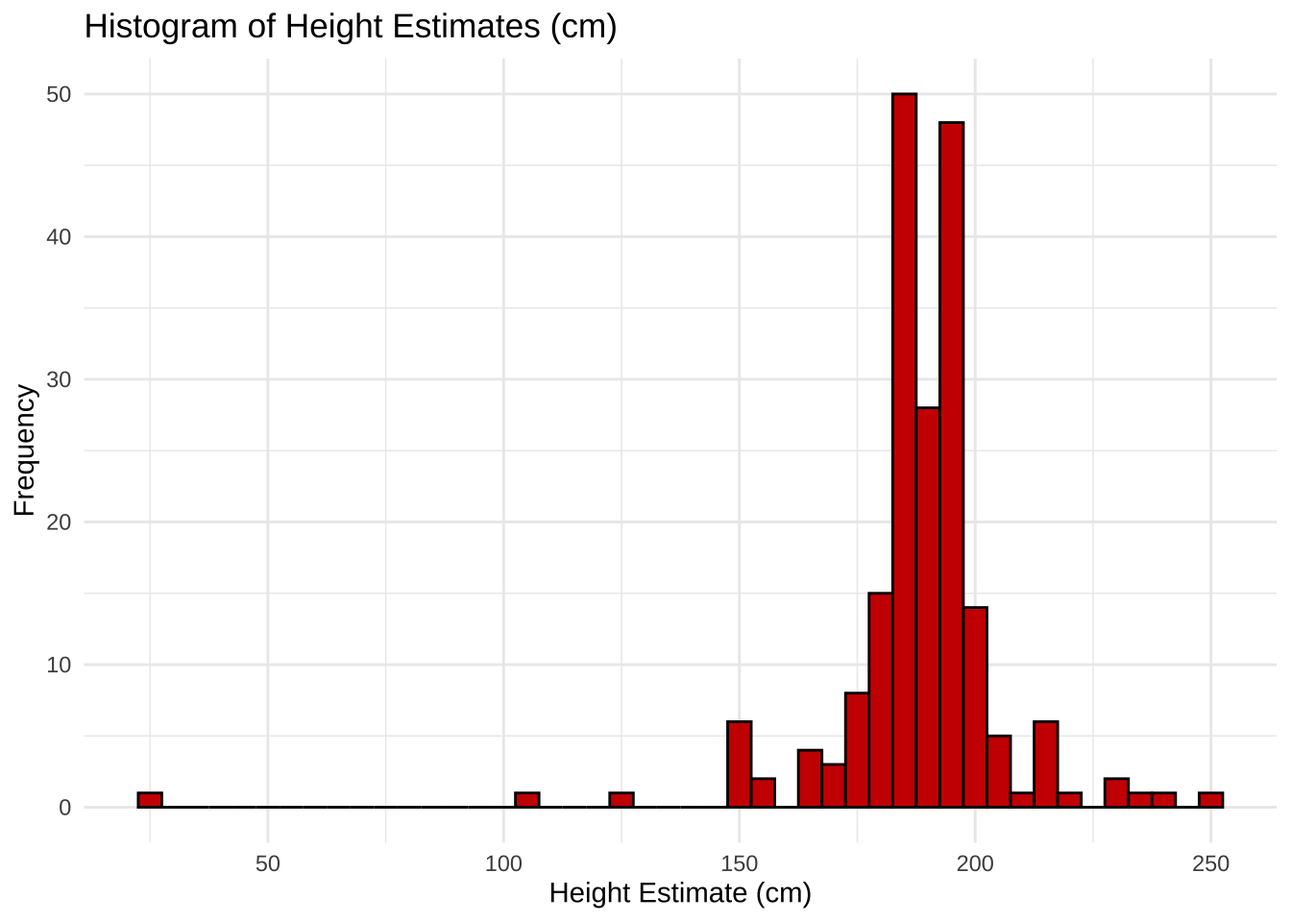
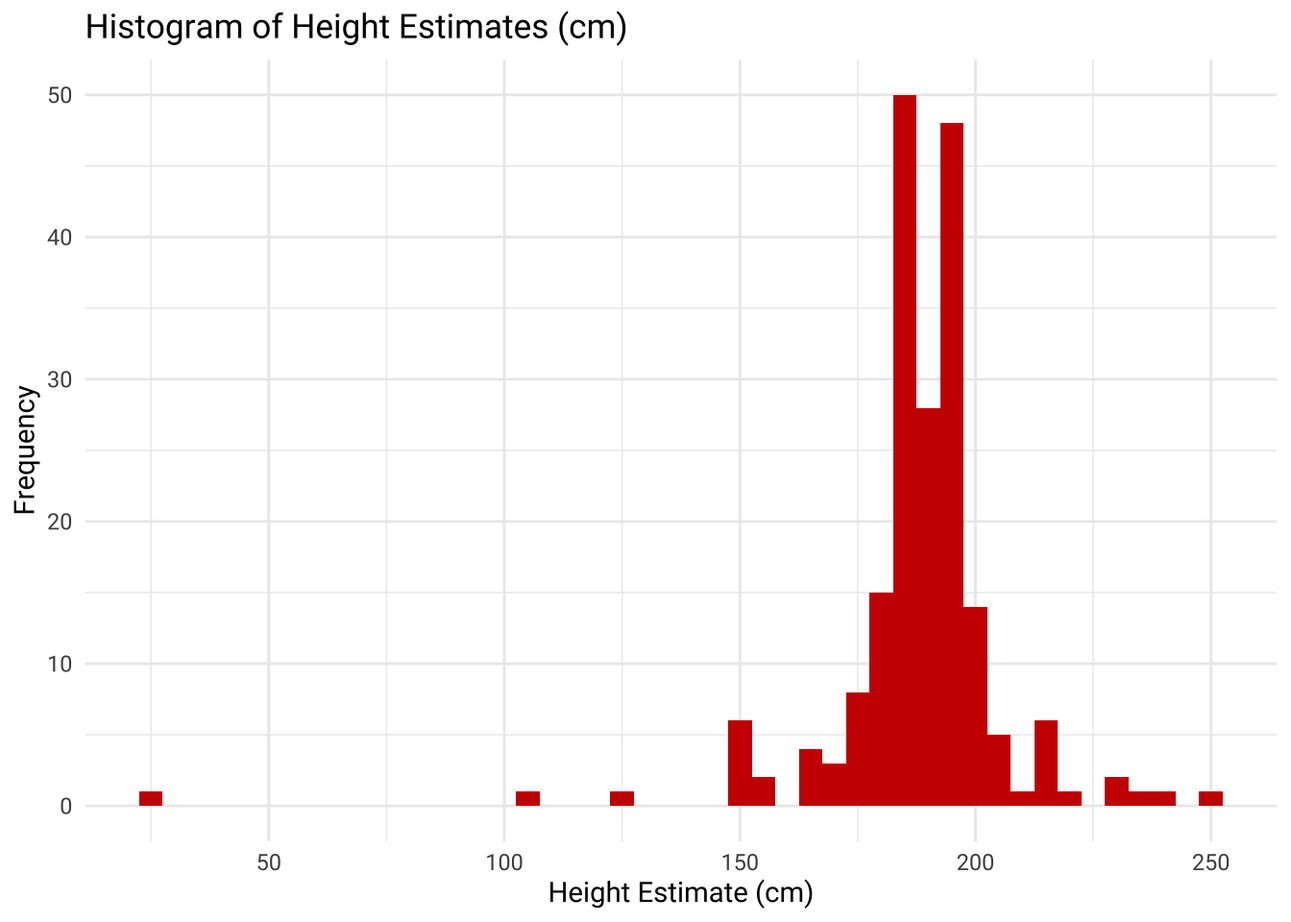
Final commit

diff --git a/docs/ST557_mod3_height_estimations.html b/docs/ST557_mod3_height_estimations.html
@@ -319,7 +319,10 @@ body {
 <div class="sourceCode cell-code" id="cb4"><pre class="sourceCode r code-with-copy"><code class="sourceCode r"><span id="cb4-1"><a href="#cb4-1" aria-hidden="true" tabindex="-1"></a>height_est <span class="ot">&lt;-</span> height_est <span class="sc">|&gt;</span></span>
 <span id="cb4-2"><a href="#cb4-2" aria-hidden="true" tabindex="-1"></a>  <span class="fu">mutate</span>(<span class="at">Timestamp =</span> <span class="fu">mdy_hms</span>(Timestamp)) <span class="sc">|&gt;</span></span>
 <span id="cb4-3"><a href="#cb4-3" aria-hidden="true" tabindex="-1"></a>  <span class="fu">clean_names</span>() <span class="sc">|&gt;</span></span>
-<span id="cb4-4"><a href="#cb4-4" aria-hidden="true" tabindex="-1"></a>  <span class="fu">filter</span>(<span class="sc">!</span>(<span class="fu">is.na</span>(whats_too_low) <span class="sc">&amp;</span> <span class="fu">is.na</span>(whats_too_high) <span class="sc">&amp;</span> <span class="fu">is.na</span>(your_estimate)))</span></code><button title="Copy to Clipboard" class="code-copy-button"><i class="bi"></i></button></pre></div>
+<span id="cb4-4"><a href="#cb4-4" aria-hidden="true" tabindex="-1"></a>  <span class="fu">filter</span>(<span class="sc">!</span>(</span>
+<span id="cb4-5"><a href="#cb4-5" aria-hidden="true" tabindex="-1"></a>    <span class="fu">is.na</span>(whats_too_low) <span class="sc">&amp;</span></span>
+<span id="cb4-6"><a href="#cb4-6" aria-hidden="true" tabindex="-1"></a>      <span class="fu">is.na</span>(whats_too_high) <span class="sc">&amp;</span> <span class="fu">is.na</span>(your_estimate)</span>
+<span id="cb4-7"><a href="#cb4-7" aria-hidden="true" tabindex="-1"></a>  ))</span></code><button title="Copy to Clipboard" class="code-copy-button"><i class="bi"></i></button></pre></div>
 </div>
 <div class="cell">
 <div class="sourceCode cell-code" id="cb5"><pre class="sourceCode r code-with-copy"><code class="sourceCode r"><span id="cb5-1"><a href="#cb5-1" aria-hidden="true" tabindex="-1"></a><span class="fu">glimpse</span>(height_est)</span></code><button title="Copy to Clipboard" class="code-copy-button"><i class="bi"></i></button></pre></div>
@@ -529,16 +532,28 @@ $ your_name      &lt;chr&gt; "Joanna", "Forrest J. S. M.", "Kaitlyn", "adsf", "g
 <p>Get a sense of frequency of measurement units</p>
 <div class="cell">
 <div class="sourceCode cell-code" id="cb13"><pre class="sourceCode r code-with-copy"><code class="sourceCode r"><span id="cb13-1"><a href="#cb13-1" aria-hidden="true" tabindex="-1"></a>height_est_sample <span class="sc">|&gt;</span></span>
-<span id="cb13-2"><a href="#cb13-2" aria-hidden="true" tabindex="-1"></a> <span class="fu">summarise</span>(</span>
-<span id="cb13-3"><a href="#cb13-3" aria-hidden="true" tabindex="-1"></a>   <span class="fu">across</span>(<span class="fu">all_of</span>(height_cols), </span>
-<span id="cb13-4"><a href="#cb13-4" aria-hidden="true" tabindex="-1"></a>          <span class="fu">list</span>(</span>
-<span id="cb13-5"><a href="#cb13-5" aria-hidden="true" tabindex="-1"></a>            <span class="at">feet =</span> <span class="sc">~</span> <span class="fu">sum</span>(<span class="fu">str_detect</span>(.x, <span class="st">"'|(feet|foot|ft|feeet|toot|fot|oot|feat)</span><span class="sc">\\</span><span class="st">b"</span>), <span class="at">na.rm =</span> <span class="cn">TRUE</span>),</span>
-<span id="cb13-6"><a href="#cb13-6" aria-hidden="true" tabindex="-1"></a>            <span class="at">inch =</span> <span class="sc">~</span> <span class="fu">sum</span>(<span class="fu">str_detect</span>(.x, <span class="st">"</span><span class="sc">\"</span><span class="st">|(inches|inch|in|inces|invhes)</span><span class="sc">\\</span><span class="st">b"</span>), <span class="at">na.rm =</span> <span class="cn">TRUE</span>),</span>
-<span id="cb13-7"><a href="#cb13-7" aria-hidden="true" tabindex="-1"></a>            <span class="at">meter =</span> <span class="sc">~</span> <span class="fu">sum</span>(<span class="fu">str_detect</span>(.x, <span class="st">"(meters|metres|meter|metre)</span><span class="sc">\\</span><span class="st">b|(?&lt;!c)m</span><span class="sc">\\</span><span class="st">b"</span>), <span class="at">na.rm =</span> <span class="cn">TRUE</span>),</span>
-<span id="cb13-8"><a href="#cb13-8" aria-hidden="true" tabindex="-1"></a>            <span class="at">cm =</span> <span class="sc">~</span> <span class="fu">sum</span>(<span class="fu">str_detect</span>(.x, <span class="st">"(centimeters|centimetres|cent|cm)</span><span class="sc">\\</span><span class="st">b"</span>), <span class="at">na.rm =</span> <span class="cn">TRUE</span>)</span>
-<span id="cb13-9"><a href="#cb13-9" aria-hidden="true" tabindex="-1"></a>          ),</span>
-<span id="cb13-10"><a href="#cb13-10" aria-hidden="true" tabindex="-1"></a>          <span class="at">.names =</span> <span class="st">"{.col}_{.fn}"</span>)</span>
-<span id="cb13-11"><a href="#cb13-11" aria-hidden="true" tabindex="-1"></a> )</span></code><button title="Copy to Clipboard" class="code-copy-button"><i class="bi"></i></button></pre></div>
+<span id="cb13-2"><a href="#cb13-2" aria-hidden="true" tabindex="-1"></a>  <span class="fu">summarise</span>(<span class="fu">across</span>(</span>
+<span id="cb13-3"><a href="#cb13-3" aria-hidden="true" tabindex="-1"></a>    <span class="fu">all_of</span>(height_cols),</span>
+<span id="cb13-4"><a href="#cb13-4" aria-hidden="true" tabindex="-1"></a>    <span class="fu">list</span>(</span>
+<span id="cb13-5"><a href="#cb13-5" aria-hidden="true" tabindex="-1"></a>      <span class="at">feet =</span> <span class="sc">~</span> <span class="fu">sum</span>(</span>
+<span id="cb13-6"><a href="#cb13-6" aria-hidden="true" tabindex="-1"></a>        <span class="fu">str_detect</span>(.x, <span class="st">"'|(feet|foot|ft|feeet|toot|fot|oot|feat)</span><span class="sc">\\</span><span class="st">b"</span>),</span>
+<span id="cb13-7"><a href="#cb13-7" aria-hidden="true" tabindex="-1"></a>        <span class="at">na.rm =</span> <span class="cn">TRUE</span></span>
+<span id="cb13-8"><a href="#cb13-8" aria-hidden="true" tabindex="-1"></a>      ),</span>
+<span id="cb13-9"><a href="#cb13-9" aria-hidden="true" tabindex="-1"></a>      <span class="at">inch =</span> <span class="sc">~</span> <span class="fu">sum</span>(</span>
+<span id="cb13-10"><a href="#cb13-10" aria-hidden="true" tabindex="-1"></a>        <span class="fu">str_detect</span>(.x, <span class="st">"</span><span class="sc">\"</span><span class="st">|(inches|inch|in|inces|invhes)</span><span class="sc">\\</span><span class="st">b"</span>),</span>
+<span id="cb13-11"><a href="#cb13-11" aria-hidden="true" tabindex="-1"></a>        <span class="at">na.rm =</span> <span class="cn">TRUE</span></span>
+<span id="cb13-12"><a href="#cb13-12" aria-hidden="true" tabindex="-1"></a>      ),</span>
+<span id="cb13-13"><a href="#cb13-13" aria-hidden="true" tabindex="-1"></a>      <span class="at">meter =</span> <span class="sc">~</span> <span class="fu">sum</span>(</span>
+<span id="cb13-14"><a href="#cb13-14" aria-hidden="true" tabindex="-1"></a>        <span class="fu">str_detect</span>(.x, <span class="st">"(meters|metres|meter|metre)</span><span class="sc">\\</span><span class="st">b|(?&lt;!c)m</span><span class="sc">\\</span><span class="st">b"</span>),</span>
+<span id="cb13-15"><a href="#cb13-15" aria-hidden="true" tabindex="-1"></a>        <span class="at">na.rm =</span> <span class="cn">TRUE</span></span>
+<span id="cb13-16"><a href="#cb13-16" aria-hidden="true" tabindex="-1"></a>      ),</span>
+<span id="cb13-17"><a href="#cb13-17" aria-hidden="true" tabindex="-1"></a>      <span class="at">cm =</span> <span class="sc">~</span> <span class="fu">sum</span>(</span>
+<span id="cb13-18"><a href="#cb13-18" aria-hidden="true" tabindex="-1"></a>        <span class="fu">str_detect</span>(.x, <span class="st">"(centimeters|centimetres|cent|cm)</span><span class="sc">\\</span><span class="st">b"</span>),</span>
+<span id="cb13-19"><a href="#cb13-19" aria-hidden="true" tabindex="-1"></a>        <span class="at">na.rm =</span> <span class="cn">TRUE</span></span>
+<span id="cb13-20"><a href="#cb13-20" aria-hidden="true" tabindex="-1"></a>      )</span>
+<span id="cb13-21"><a href="#cb13-21" aria-hidden="true" tabindex="-1"></a>    ),</span>
+<span id="cb13-22"><a href="#cb13-22" aria-hidden="true" tabindex="-1"></a>    <span class="at">.names =</span> <span class="st">"{.col}_{.fn}"</span></span>
+<span id="cb13-23"><a href="#cb13-23" aria-hidden="true" tabindex="-1"></a>  ))</span></code><button title="Copy to Clipboard" class="code-copy-button"><i class="bi"></i></button></pre></div>
 <div class="cell-output cell-output-stdout">
 <pre><code># A tibble: 1 × 12
   whats_too_low_feet whats_too_low_inch whats_too_low_meter whats_too_low_cm
@@ -553,13 +568,18 @@ $ your_name      &lt;chr&gt; "Joanna", "Forrest J. S. M.", "Kaitlyn", "adsf", "g
 <p>Attempt to programmatically apply consistent unit designations in anticipation of using <em>measurements</em> package to convert all to cm</p>
 <div class="cell">
 <div class="sourceCode cell-code" id="cb15"><pre class="sourceCode r code-with-copy"><code class="sourceCode r"><span id="cb15-1"><a href="#cb15-1" aria-hidden="true" tabindex="-1"></a>height_est_sample_mod <span class="ot">&lt;-</span> height_est_sample <span class="sc">|&gt;</span></span>
-<span id="cb15-2"><a href="#cb15-2" aria-hidden="true" tabindex="-1"></a>  <span class="fu">mutate</span>(<span class="fu">across</span>(<span class="fu">all_of</span>(height_cols), <span class="sc">~</span> .x <span class="sc">|&gt;</span></span>
-<span id="cb15-3"><a href="#cb15-3" aria-hidden="true" tabindex="-1"></a>    <span class="fu">str_replace_all</span>(<span class="st">"'|(feet|foot|ft|feeet|toot|fot|oot|feat)</span><span class="sc">\\</span><span class="st">b"</span>, <span class="st">" ft "</span>) <span class="sc">|&gt;</span></span>
-<span id="cb15-4"><a href="#cb15-4" aria-hidden="true" tabindex="-1"></a>    <span class="fu">str_replace_all</span>(<span class="st">"</span><span class="sc">\"</span><span class="st">|(inches|inch|in|inces|invhes)</span><span class="sc">\\</span><span class="st">b"</span>, <span class="st">" inch "</span>) <span class="sc">|&gt;</span></span>
-<span id="cb15-5"><a href="#cb15-5" aria-hidden="true" tabindex="-1"></a>    <span class="fu">str_replace_all</span>(<span class="st">"(meters|metres|meter|metre)</span><span class="sc">\\</span><span class="st">b"</span>, <span class="st">" m "</span>) <span class="sc">|&gt;</span></span>
-<span id="cb15-6"><a href="#cb15-6" aria-hidden="true" tabindex="-1"></a>    <span class="fu">str_replace_all</span>(<span class="st">"(centimeters|centimetres|cent|cm)</span><span class="sc">\\</span><span class="st">b"</span>, <span class="st">" cm "</span>) <span class="sc">|&gt;</span></span>
-<span id="cb15-7"><a href="#cb15-7" aria-hidden="true" tabindex="-1"></a>    <span class="fu">str_replace_all</span>(<span class="st">"(?&lt;!c)m</span><span class="sc">\\</span><span class="st">b"</span>, <span class="st">" m "</span>),</span>
-<span id="cb15-8"><a href="#cb15-8" aria-hidden="true" tabindex="-1"></a>    <span class="at">.names =</span> <span class="st">"{.col}_mod"</span>))</span></code><button title="Copy to Clipboard" class="code-copy-button"><i class="bi"></i></button></pre></div>
+<span id="cb15-2"><a href="#cb15-2" aria-hidden="true" tabindex="-1"></a>  <span class="fu">mutate</span>(</span>
+<span id="cb15-3"><a href="#cb15-3" aria-hidden="true" tabindex="-1"></a>    <span class="fu">across</span>(</span>
+<span id="cb15-4"><a href="#cb15-4" aria-hidden="true" tabindex="-1"></a>      <span class="fu">all_of</span>(height_cols),</span>
+<span id="cb15-5"><a href="#cb15-5" aria-hidden="true" tabindex="-1"></a>      <span class="sc">~</span> .x <span class="sc">|&gt;</span></span>
+<span id="cb15-6"><a href="#cb15-6" aria-hidden="true" tabindex="-1"></a>        <span class="fu">str_replace_all</span>(<span class="st">"'|(feet|foot|ft|feeet|toot|fot|oot|feat)</span><span class="sc">\\</span><span class="st">b"</span>, <span class="st">" ft "</span>) <span class="sc">|&gt;</span></span>
+<span id="cb15-7"><a href="#cb15-7" aria-hidden="true" tabindex="-1"></a>        <span class="fu">str_replace_all</span>(<span class="st">"</span><span class="sc">\"</span><span class="st">|(inches|inch|in|inces|invhes)</span><span class="sc">\\</span><span class="st">b"</span>, <span class="st">" inch "</span>) <span class="sc">|&gt;</span></span>
+<span id="cb15-8"><a href="#cb15-8" aria-hidden="true" tabindex="-1"></a>        <span class="fu">str_replace_all</span>(<span class="st">"(meters|metres|meter|metre)</span><span class="sc">\\</span><span class="st">b"</span>, <span class="st">" m "</span>) <span class="sc">|&gt;</span></span>
+<span id="cb15-9"><a href="#cb15-9" aria-hidden="true" tabindex="-1"></a>        <span class="fu">str_replace_all</span>(<span class="st">"(centimeters|centimetres|cent|cm)</span><span class="sc">\\</span><span class="st">b"</span>, <span class="st">" cm "</span>) <span class="sc">|&gt;</span></span>
+<span id="cb15-10"><a href="#cb15-10" aria-hidden="true" tabindex="-1"></a>        <span class="fu">str_replace_all</span>(<span class="st">"(?&lt;!c)m</span><span class="sc">\\</span><span class="st">b"</span>, <span class="st">" m "</span>),</span>
+<span id="cb15-11"><a href="#cb15-11" aria-hidden="true" tabindex="-1"></a>      <span class="at">.names =</span> <span class="st">"{.col}_mod"</span></span>
+<span id="cb15-12"><a href="#cb15-12" aria-hidden="true" tabindex="-1"></a>    )</span>
+<span id="cb15-13"><a href="#cb15-13" aria-hidden="true" tabindex="-1"></a>  )</span></code><button title="Copy to Clipboard" class="code-copy-button"><i class="bi"></i></button></pre></div>
 </div>
 <div class="cell">
 <div class="sourceCode cell-code" id="cb16"><pre class="sourceCode r code-with-copy"><code class="sourceCode r"><span id="cb16-1"><a href="#cb16-1" aria-hidden="true" tabindex="-1"></a>height_est_sample_mod <span class="sc">|&gt;</span></span>
@@ -2804,36 +2824,37 @@ $ your_name      &lt;chr&gt; "Joanna", "Forrest J. S. M.", "Kaitlyn", "adsf", "g
 <p>The following code blocks use a simpler, although less defensible approach, of ignoring the various unit designations, and instead just extracting the numbers and using reasonable ranges to approximate the intended unit. This allowed me to move forward in my analysis. The below therefore is indicative of some steps I would have taken if I could have eventually coerced at least the “your_estimate_mod” column into a usbale state.</p>
 <div class="cell">
 <div class="sourceCode cell-code" id="cb17"><pre class="sourceCode r code-with-copy"><code class="sourceCode r"><span id="cb17-1"><a href="#cb17-1" aria-hidden="true" tabindex="-1"></a>height_est_sample_mod_2 <span class="ot">&lt;-</span> height_est_sample_mod <span class="sc">|&gt;</span></span>
-<span id="cb17-2"><a href="#cb17-2" aria-hidden="true" tabindex="-1"></a> <span class="fu">mutate</span>(</span>
-<span id="cb17-3"><a href="#cb17-3" aria-hidden="true" tabindex="-1"></a>   <span class="at">estimate_cm =</span> <span class="fu">map_dbl</span>(your_estimate, <span class="cf">function</span>(text) {</span>
-<span id="cb17-4"><a href="#cb17-4" aria-hidden="true" tabindex="-1"></a>     <span class="cf">if</span> (<span class="fu">is.na</span>(text) <span class="sc">||</span> <span class="fu">str_trim</span>(text) <span class="sc">==</span> <span class="st">""</span>) <span class="fu">return</span>(<span class="cn">NA_real_</span>)</span>
-<span id="cb17-5"><a href="#cb17-5" aria-hidden="true" tabindex="-1"></a>     </span>
-<span id="cb17-6"><a href="#cb17-6" aria-hidden="true" tabindex="-1"></a>     numbers <span class="ot">&lt;-</span> <span class="fu">as.numeric</span>(<span class="fu">str_extract_all</span>(text, <span class="st">"</span><span class="sc">\\</span><span class="st">d+</span><span class="sc">\\</span><span class="st">.?</span><span class="sc">\\</span><span class="st">d*"</span>)[[<span class="dv">1</span>]])</span>
-<span id="cb17-7"><a href="#cb17-7" aria-hidden="true" tabindex="-1"></a>     <span class="cf">if</span> (<span class="fu">length</span>(numbers) <span class="sc">==</span> <span class="dv">0</span>) <span class="fu">return</span>(<span class="cn">NA_real_</span>)</span>
-<span id="cb17-8"><a href="#cb17-8" aria-hidden="true" tabindex="-1"></a>     </span>
-<span id="cb17-9"><a href="#cb17-9" aria-hidden="true" tabindex="-1"></a>     <span class="fu">tryCatch</span>({</span>
-<span id="cb17-10"><a href="#cb17-10" aria-hidden="true" tabindex="-1"></a>       first_num <span class="ot">&lt;-</span> numbers[<span class="dv">1</span>]</span>
-<span id="cb17-11"><a href="#cb17-11" aria-hidden="true" tabindex="-1"></a>       </span>
-<span id="cb17-12"><a href="#cb17-12" aria-hidden="true" tabindex="-1"></a>       <span class="cf">if</span> (first_num <span class="sc">&lt;</span> <span class="dv">3</span>) {</span>
-<span id="cb17-13"><a href="#cb17-13" aria-hidden="true" tabindex="-1"></a>         <span class="fu">conv_unit</span>(first_num, <span class="st">"m"</span>, <span class="st">"cm"</span>)</span>
-<span id="cb17-14"><a href="#cb17-14" aria-hidden="true" tabindex="-1"></a>       } <span class="cf">else</span> <span class="cf">if</span> (first_num <span class="sc">&gt;</span> <span class="dv">100</span>) {</span>
-<span id="cb17-15"><a href="#cb17-15" aria-hidden="true" tabindex="-1"></a>         first_num</span>
-<span id="cb17-16"><a href="#cb17-16" aria-hidden="true" tabindex="-1"></a>       } <span class="cf">else</span> <span class="cf">if</span> (first_num <span class="sc">&gt;=</span> <span class="dv">50</span> <span class="sc">&amp;&amp;</span> first_num <span class="sc">&lt;=</span> <span class="dv">100</span>) {</span>
-<span id="cb17-17"><a href="#cb17-17" aria-hidden="true" tabindex="-1"></a>         <span class="fu">conv_unit</span>(first_num, <span class="st">"inch"</span>, <span class="st">"cm"</span>)</span>
-<span id="cb17-18"><a href="#cb17-18" aria-hidden="true" tabindex="-1"></a>       } <span class="cf">else</span> <span class="cf">if</span> (first_num <span class="sc">&gt;=</span> <span class="dv">3</span> <span class="sc">&amp;&amp;</span> first_num <span class="sc">&lt;</span> <span class="dv">9</span>) {</span>
-<span id="cb17-19"><a href="#cb17-19" aria-hidden="true" tabindex="-1"></a>         <span class="cf">if</span> (<span class="fu">length</span>(numbers) <span class="sc">&gt;=</span> <span class="dv">2</span> <span class="sc">&amp;&amp;</span> numbers[<span class="dv">2</span>] <span class="sc">&lt;=</span> <span class="dv">12</span>) {</span>
-<span id="cb17-20"><a href="#cb17-20" aria-hidden="true" tabindex="-1"></a>           <span class="fu">conv_unit</span>(first_num, <span class="st">"ft"</span>, <span class="st">"cm"</span>) <span class="sc">+</span> <span class="fu">conv_unit</span>(numbers[<span class="dv">2</span>], <span class="st">"inch"</span>, <span class="st">"cm"</span>)</span>
-<span id="cb17-21"><a href="#cb17-21" aria-hidden="true" tabindex="-1"></a>         } <span class="cf">else</span> {</span>
-<span id="cb17-22"><a href="#cb17-22" aria-hidden="true" tabindex="-1"></a>           <span class="fu">conv_unit</span>(first_num, <span class="st">"ft"</span>, <span class="st">"cm"</span>)</span>
-<span id="cb17-23"><a href="#cb17-23" aria-hidden="true" tabindex="-1"></a>         }</span>
-<span id="cb17-24"><a href="#cb17-24" aria-hidden="true" tabindex="-1"></a>       } <span class="cf">else</span> <span class="cf">if</span> (first_num <span class="sc">&gt;=</span> <span class="dv">9</span> <span class="sc">&amp;&amp;</span> first_num <span class="sc">&lt;</span> <span class="dv">50</span>) {</span>
-<span id="cb17-25"><a href="#cb17-25" aria-hidden="true" tabindex="-1"></a>         <span class="fu">conv_unit</span>(first_num, <span class="st">"inch"</span>, <span class="st">"cm"</span>)</span>
-<span id="cb17-26"><a href="#cb17-26" aria-hidden="true" tabindex="-1"></a>       } <span class="cf">else</span> {</span>
-<span id="cb17-27"><a href="#cb17-27" aria-hidden="true" tabindex="-1"></a>         <span class="cn">NA_real_</span></span>
-<span id="cb17-28"><a href="#cb17-28" aria-hidden="true" tabindex="-1"></a>       }</span>
-<span id="cb17-29"><a href="#cb17-29" aria-hidden="true" tabindex="-1"></a>     }, <span class="at">error =</span> <span class="cf">function</span>(e) <span class="cn">NA_real_</span>)</span>
-<span id="cb17-30"><a href="#cb17-30" aria-hidden="true" tabindex="-1"></a>   })</span>
-<span id="cb17-31"><a href="#cb17-31" aria-hidden="true" tabindex="-1"></a> )</span></code><button title="Copy to Clipboard" class="code-copy-button"><i class="bi"></i></button></pre></div>
+<span id="cb17-2"><a href="#cb17-2" aria-hidden="true" tabindex="-1"></a>  <span class="fu">mutate</span>(<span class="at">estimate_cm =</span> <span class="fu">map_dbl</span>(your_estimate, <span class="cf">function</span>(text) {</span>
+<span id="cb17-3"><a href="#cb17-3" aria-hidden="true" tabindex="-1"></a>    <span class="cf">if</span> (<span class="fu">is.na</span>(text) <span class="sc">||</span> <span class="fu">str_trim</span>(text) <span class="sc">==</span> <span class="st">""</span>)</span>
+<span id="cb17-4"><a href="#cb17-4" aria-hidden="true" tabindex="-1"></a>      <span class="fu">return</span>(<span class="cn">NA_real_</span>)</span>
+<span id="cb17-5"><a href="#cb17-5" aria-hidden="true" tabindex="-1"></a>    </span>
+<span id="cb17-6"><a href="#cb17-6" aria-hidden="true" tabindex="-1"></a>    numbers <span class="ot">&lt;-</span> <span class="fu">as.numeric</span>(<span class="fu">str_extract_all</span>(text, <span class="st">"</span><span class="sc">\\</span><span class="st">d+</span><span class="sc">\\</span><span class="st">.?</span><span class="sc">\\</span><span class="st">d*"</span>)[[<span class="dv">1</span>]])</span>
+<span id="cb17-7"><a href="#cb17-7" aria-hidden="true" tabindex="-1"></a>    <span class="cf">if</span> (<span class="fu">length</span>(numbers) <span class="sc">==</span> <span class="dv">0</span>)</span>
+<span id="cb17-8"><a href="#cb17-8" aria-hidden="true" tabindex="-1"></a>      <span class="fu">return</span>(<span class="cn">NA_real_</span>)</span>
+<span id="cb17-9"><a href="#cb17-9" aria-hidden="true" tabindex="-1"></a>    </span>
+<span id="cb17-10"><a href="#cb17-10" aria-hidden="true" tabindex="-1"></a>    <span class="fu">tryCatch</span>({</span>
+<span id="cb17-11"><a href="#cb17-11" aria-hidden="true" tabindex="-1"></a>      first_num <span class="ot">&lt;-</span> numbers[<span class="dv">1</span>]</span>
+<span id="cb17-12"><a href="#cb17-12" aria-hidden="true" tabindex="-1"></a>      </span>
+<span id="cb17-13"><a href="#cb17-13" aria-hidden="true" tabindex="-1"></a>      <span class="cf">if</span> (first_num <span class="sc">&lt;</span> <span class="dv">3</span>) {</span>
+<span id="cb17-14"><a href="#cb17-14" aria-hidden="true" tabindex="-1"></a>        <span class="fu">conv_unit</span>(first_num, <span class="st">"m"</span>, <span class="st">"cm"</span>)</span>
+<span id="cb17-15"><a href="#cb17-15" aria-hidden="true" tabindex="-1"></a>      } <span class="cf">else</span> <span class="cf">if</span> (first_num <span class="sc">&gt;</span> <span class="dv">100</span>) {</span>
+<span id="cb17-16"><a href="#cb17-16" aria-hidden="true" tabindex="-1"></a>        first_num</span>
+<span id="cb17-17"><a href="#cb17-17" aria-hidden="true" tabindex="-1"></a>      } <span class="cf">else</span> <span class="cf">if</span> (first_num <span class="sc">&gt;=</span> <span class="dv">50</span> <span class="sc">&amp;&amp;</span> first_num <span class="sc">&lt;=</span> <span class="dv">100</span>) {</span>
+<span id="cb17-18"><a href="#cb17-18" aria-hidden="true" tabindex="-1"></a>        <span class="fu">conv_unit</span>(first_num, <span class="st">"inch"</span>, <span class="st">"cm"</span>)</span>
+<span id="cb17-19"><a href="#cb17-19" aria-hidden="true" tabindex="-1"></a>      } <span class="cf">else</span> <span class="cf">if</span> (first_num <span class="sc">&gt;=</span> <span class="dv">3</span> <span class="sc">&amp;&amp;</span> first_num <span class="sc">&lt;</span> <span class="dv">9</span>) {</span>
+<span id="cb17-20"><a href="#cb17-20" aria-hidden="true" tabindex="-1"></a>        <span class="cf">if</span> (<span class="fu">length</span>(numbers) <span class="sc">&gt;=</span> <span class="dv">2</span> <span class="sc">&amp;&amp;</span> numbers[<span class="dv">2</span>] <span class="sc">&lt;=</span> <span class="dv">12</span>) {</span>
+<span id="cb17-21"><a href="#cb17-21" aria-hidden="true" tabindex="-1"></a>          <span class="fu">conv_unit</span>(first_num, <span class="st">"ft"</span>, <span class="st">"cm"</span>) <span class="sc">+</span> <span class="fu">conv_unit</span>(numbers[<span class="dv">2</span>], <span class="st">"inch"</span>, <span class="st">"cm"</span>)</span>
+<span id="cb17-22"><a href="#cb17-22" aria-hidden="true" tabindex="-1"></a>        } <span class="cf">else</span> {</span>
+<span id="cb17-23"><a href="#cb17-23" aria-hidden="true" tabindex="-1"></a>          <span class="fu">conv_unit</span>(first_num, <span class="st">"ft"</span>, <span class="st">"cm"</span>)</span>
+<span id="cb17-24"><a href="#cb17-24" aria-hidden="true" tabindex="-1"></a>        }</span>
+<span id="cb17-25"><a href="#cb17-25" aria-hidden="true" tabindex="-1"></a>      } <span class="cf">else</span> <span class="cf">if</span> (first_num <span class="sc">&gt;=</span> <span class="dv">9</span> <span class="sc">&amp;&amp;</span> first_num <span class="sc">&lt;</span> <span class="dv">50</span>) {</span>
+<span id="cb17-26"><a href="#cb17-26" aria-hidden="true" tabindex="-1"></a>        <span class="fu">conv_unit</span>(first_num, <span class="st">"inch"</span>, <span class="st">"cm"</span>)</span>
+<span id="cb17-27"><a href="#cb17-27" aria-hidden="true" tabindex="-1"></a>      } <span class="cf">else</span> {</span>
+<span id="cb17-28"><a href="#cb17-28" aria-hidden="true" tabindex="-1"></a>        <span class="cn">NA_real_</span></span>
+<span id="cb17-29"><a href="#cb17-29" aria-hidden="true" tabindex="-1"></a>      }</span>
+<span id="cb17-30"><a href="#cb17-30" aria-hidden="true" tabindex="-1"></a>    }, <span class="at">error =</span> <span class="cf">function</span>(e)</span>
+<span id="cb17-31"><a href="#cb17-31" aria-hidden="true" tabindex="-1"></a>      <span class="cn">NA_real_</span>)</span>
+<span id="cb17-32"><a href="#cb17-32" aria-hidden="true" tabindex="-1"></a>  }))</span></code><button title="Copy to Clipboard" class="code-copy-button"><i class="bi"></i></button></pre></div>
 </div>
 <p>Get summary statistics for height estimate</p>
 <div class="cell">
@@ -2855,13 +2876,10 @@ X1    1 199  187 20    188     188 7.5  23 250   227 -3.1       25 1.4</code></p
 <div class="sourceCode cell-code" id="cb22"><pre class="sourceCode r code-with-copy"><code class="sourceCode r"><span id="cb22-1"><a href="#cb22-1" aria-hidden="true" tabindex="-1"></a>height_est_sample_mod_2 <span class="sc">|&gt;</span></span>
 <span id="cb22-2"><a href="#cb22-2" aria-hidden="true" tabindex="-1"></a>  <span class="fu">filter</span>(<span class="sc">!</span><span class="fu">is.na</span>(estimate_cm)) <span class="sc">|&gt;</span></span>
 <span id="cb22-3"><a href="#cb22-3" aria-hidden="true" tabindex="-1"></a>  <span class="fu">ggplot</span>(<span class="fu">aes</span>(<span class="at">x =</span> estimate_cm)) <span class="sc">+</span></span>
-<span id="cb22-4"><a href="#cb22-4" aria-hidden="true" tabindex="-1"></a>  <span class="fu">geom_histogram</span>(<span class="at">binwidth =</span> <span class="dv">5</span>, <span class="at">fill =</span> <span class="st">"#CC0000"</span>, <span class="at">color =</span> <span class="st">"#000000"</span>) <span class="sc">+</span></span>
-<span id="cb22-5"><a href="#cb22-5" aria-hidden="true" tabindex="-1"></a>  <span class="fu">labs</span>(</span>
-<span id="cb22-6"><a href="#cb22-6" aria-hidden="true" tabindex="-1"></a>    <span class="at">title =</span> <span class="st">"Histogram of Height Estimates (cm)"</span>,</span>
-<span id="cb22-7"><a href="#cb22-7" aria-hidden="true" tabindex="-1"></a>    <span class="at">x =</span> <span class="st">"Height Estimate (cm)"</span>,</span>
-<span id="cb22-8"><a href="#cb22-8" aria-hidden="true" tabindex="-1"></a>    <span class="at">y =</span> <span class="st">"Frequency"</span></span>
-<span id="cb22-9"><a href="#cb22-9" aria-hidden="true" tabindex="-1"></a>  ) <span class="sc">+</span></span>
-<span id="cb22-10"><a href="#cb22-10" aria-hidden="true" tabindex="-1"></a>  <span class="fu">theme_minimal</span>()</span></code><button title="Copy to Clipboard" class="code-copy-button"><i class="bi"></i></button></pre></div>
+<span id="cb22-4"><a href="#cb22-4" aria-hidden="true" tabindex="-1"></a>  <span class="fu">geom_histogram</span>(<span class="at">binwidth =</span> <span class="dv">5</span>, <span class="at">fill =</span> <span class="st">"#CC0000"</span>) <span class="sc">+</span></span>
+<span id="cb22-5"><a href="#cb22-5" aria-hidden="true" tabindex="-1"></a>  <span class="fu">labs</span>(<span class="at">title =</span> <span class="st">"Histogram of Height Estimates (cm)"</span>, <span class="at">x =</span> <span class="st">"Height Estimate (cm)"</span>, <span class="at">y =</span> <span class="st">"Frequency"</span>) <span class="sc">+</span></span>
+<span id="cb22-6"><a href="#cb22-6" aria-hidden="true" tabindex="-1"></a>  <span class="fu">theme_minimal</span>() <span class="sc">+</span></span>
+<span id="cb22-7"><a href="#cb22-7" aria-hidden="true" tabindex="-1"></a>  <span class="fu">theme</span>(<span class="at">text =</span> <span class="fu">element_text</span>(<span class="at">family =</span> <span class="st">"Roboto"</span>))</span></code><button title="Copy to Clipboard" class="code-copy-button"><i class="bi"></i></button></pre></div>
 <div class="cell-output-display">
 <div>
 <figure class="figure">
@@ -2875,12 +2893,10 @@ X1    1 199  187 20    188     188 7.5  23 250   227 -3.1       25 1.4</code></p
 <div class="sourceCode cell-code" id="cb23"><pre class="sourceCode r code-with-copy"><code class="sourceCode r"><span id="cb23-1"><a href="#cb23-1" aria-hidden="true" tabindex="-1"></a>height_est_sample_mod_2 <span class="sc">|&gt;</span></span>
 <span id="cb23-2"><a href="#cb23-2" aria-hidden="true" tabindex="-1"></a>  <span class="fu">filter</span>(<span class="sc">!</span><span class="fu">is.na</span>(estimate_cm)) <span class="sc">|&gt;</span></span>
 <span id="cb23-3"><a href="#cb23-3" aria-hidden="true" tabindex="-1"></a>  <span class="fu">ggplot</span>(<span class="fu">aes</span>(<span class="at">y =</span> estimate_cm)) <span class="sc">+</span></span>
-<span id="cb23-4"><a href="#cb23-4" aria-hidden="true" tabindex="-1"></a>  <span class="fu">geom_boxplot</span>(<span class="at">fill =</span> <span class="st">"#CC0000"</span>, <span class="at">color =</span> <span class="st">"#000000"</span>) <span class="sc">+</span></span>
-<span id="cb23-5"><a href="#cb23-5" aria-hidden="true" tabindex="-1"></a>  <span class="fu">labs</span>(</span>
-<span id="cb23-6"><a href="#cb23-6" aria-hidden="true" tabindex="-1"></a>    <span class="at">title =</span> <span class="st">"Boxplot of Height Estimates (cm)"</span>,</span>
-<span id="cb23-7"><a href="#cb23-7" aria-hidden="true" tabindex="-1"></a>    <span class="at">y =</span> <span class="st">"Height Estimate (cm)"</span></span>
-<span id="cb23-8"><a href="#cb23-8" aria-hidden="true" tabindex="-1"></a>  ) <span class="sc">+</span></span>
-<span id="cb23-9"><a href="#cb23-9" aria-hidden="true" tabindex="-1"></a>  <span class="fu">theme_minimal</span>()</span></code><button title="Copy to Clipboard" class="code-copy-button"><i class="bi"></i></button></pre></div>
+<span id="cb23-4"><a href="#cb23-4" aria-hidden="true" tabindex="-1"></a>  <span class="fu">geom_boxplot</span>(<span class="at">fill =</span> <span class="st">"#CC0000"</span>) <span class="sc">+</span></span>
+<span id="cb23-5"><a href="#cb23-5" aria-hidden="true" tabindex="-1"></a>  <span class="fu">labs</span>(<span class="at">title =</span> <span class="st">"Boxplot of Height Estimates (cm)"</span>, <span class="at">y =</span> <span class="st">"Height Estimate (cm)"</span>) <span class="sc">+</span></span>
+<span id="cb23-6"><a href="#cb23-6" aria-hidden="true" tabindex="-1"></a>  <span class="fu">theme_minimal</span>() <span class="sc">+</span></span>
+<span id="cb23-7"><a href="#cb23-7" aria-hidden="true" tabindex="-1"></a>  <span class="fu">theme</span>(<span class="at">text =</span> <span class="fu">element_text</span>(<span class="at">family =</span> <span class="st">"Roboto"</span>))</span></code><button title="Copy to Clipboard" class="code-copy-button"><i class="bi"></i></button></pre></div>
 <div class="cell-output-display">
 <div>
 <figure class="figure">
